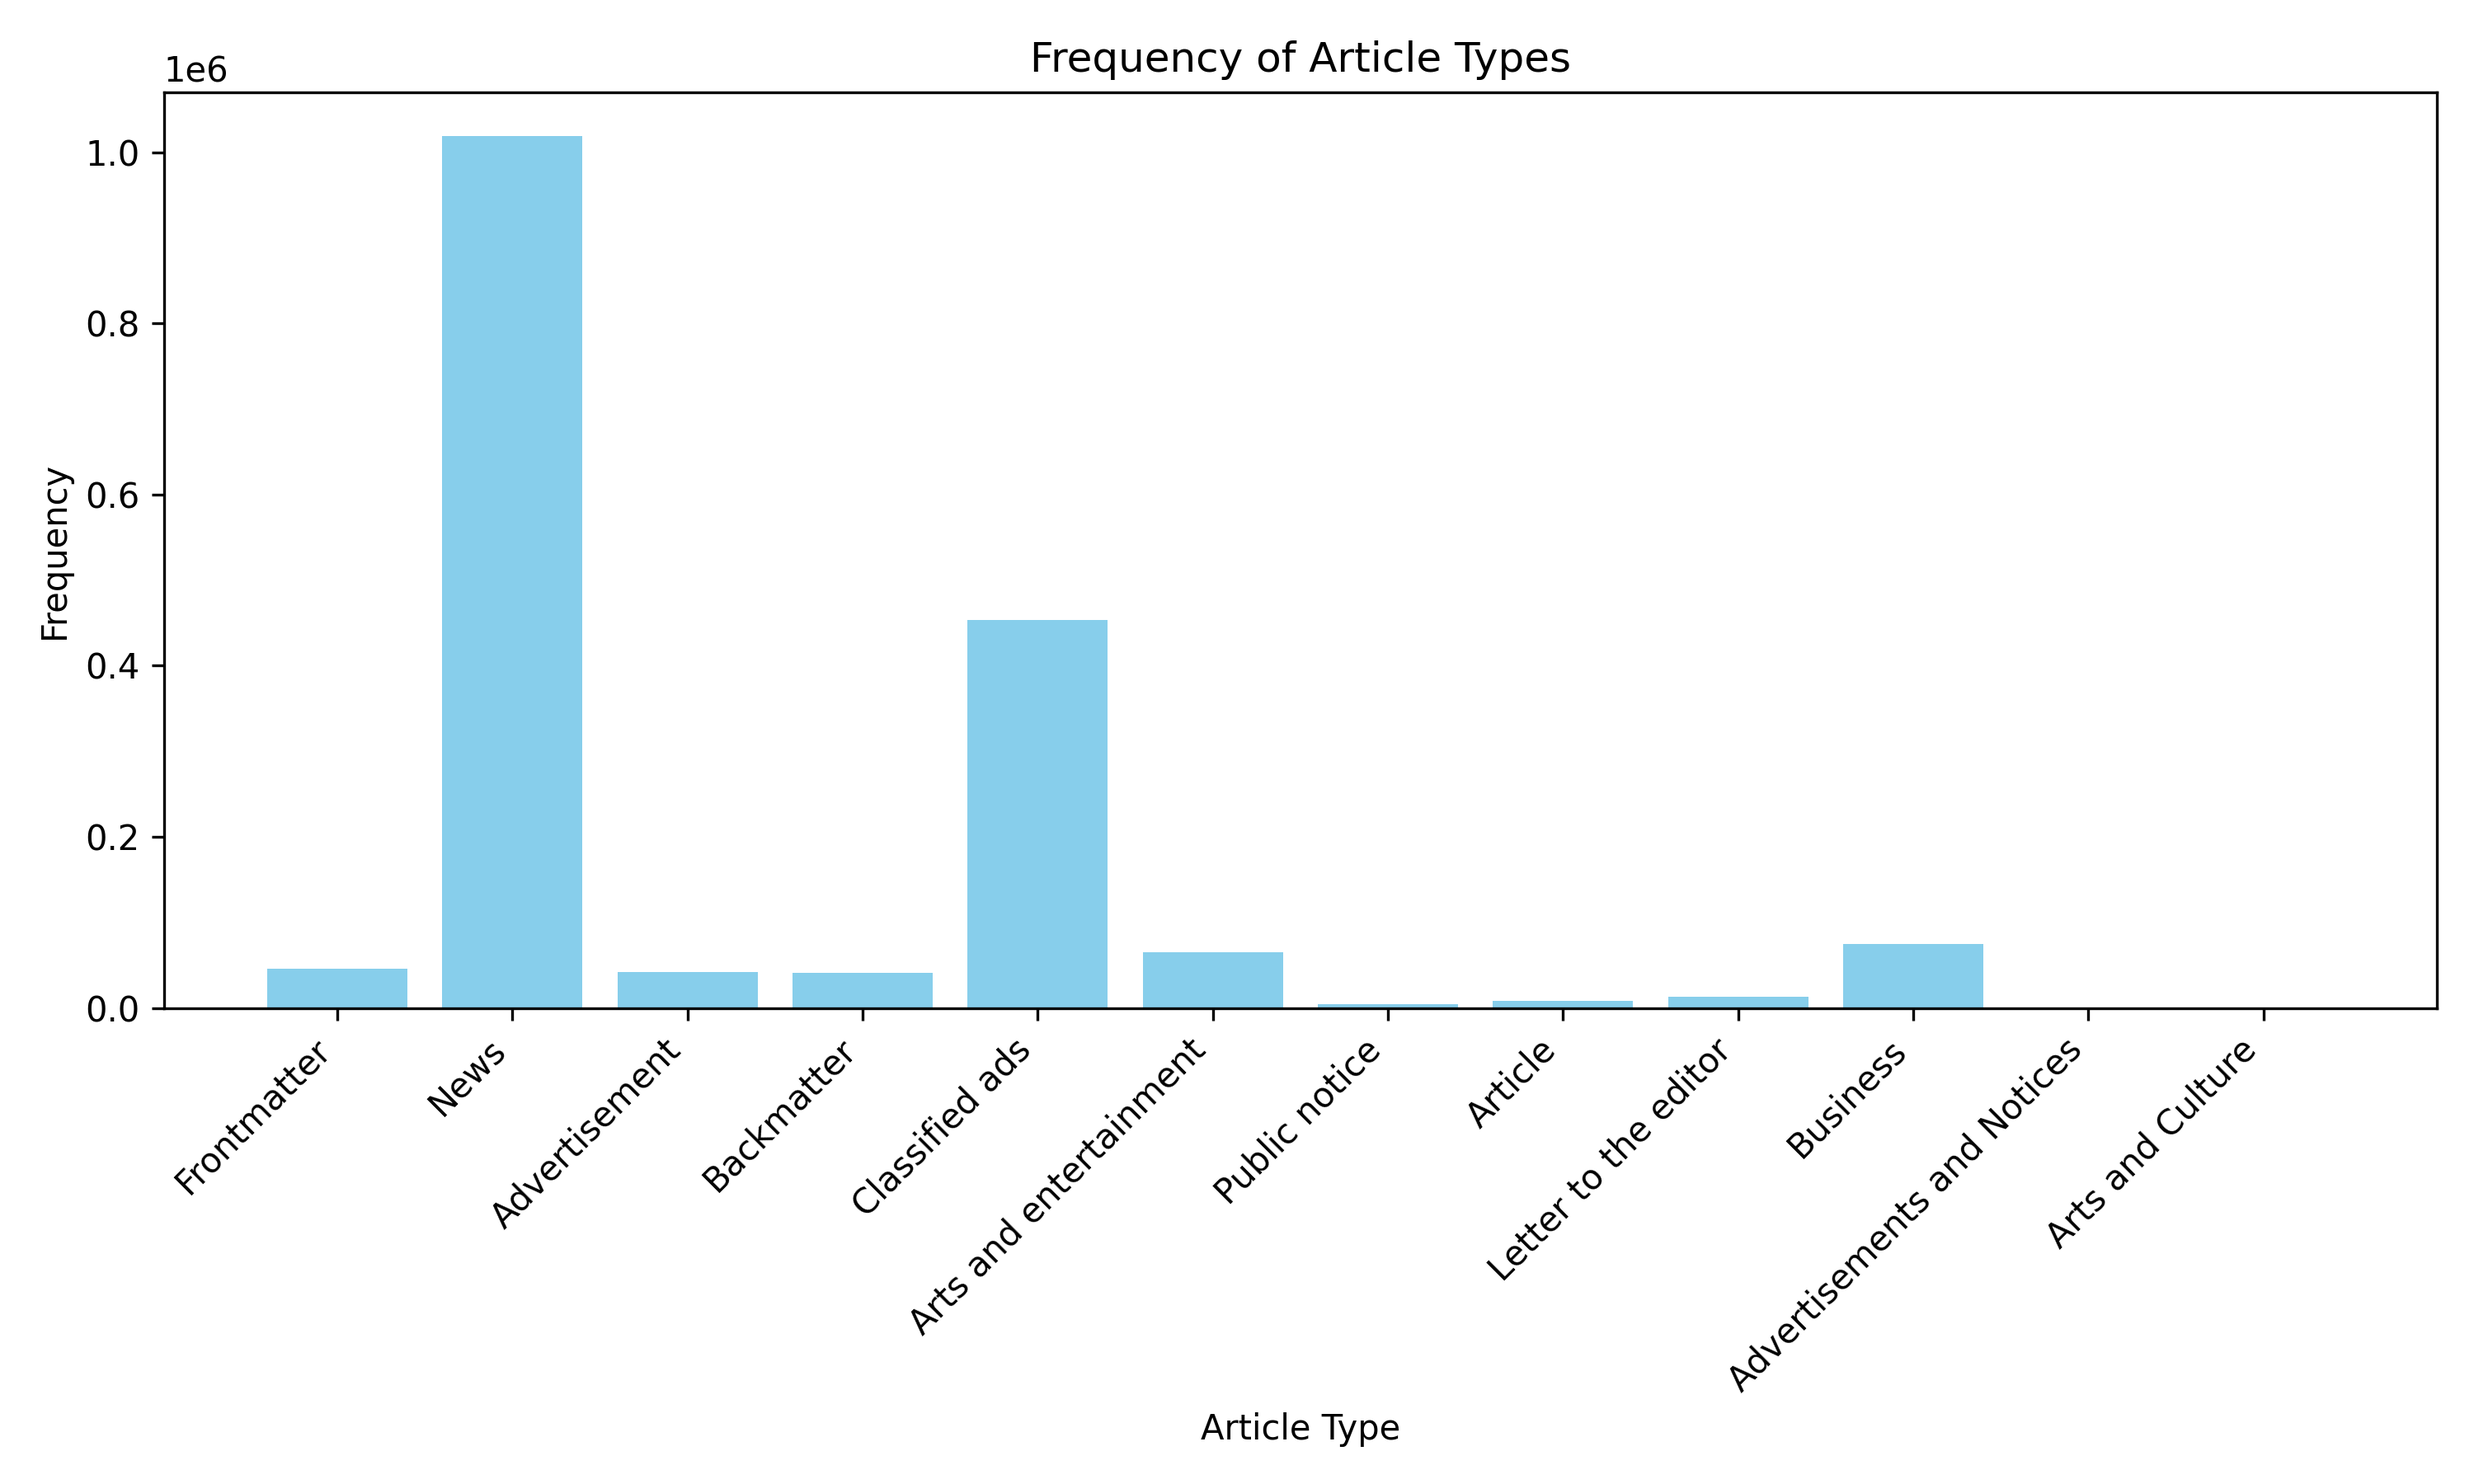
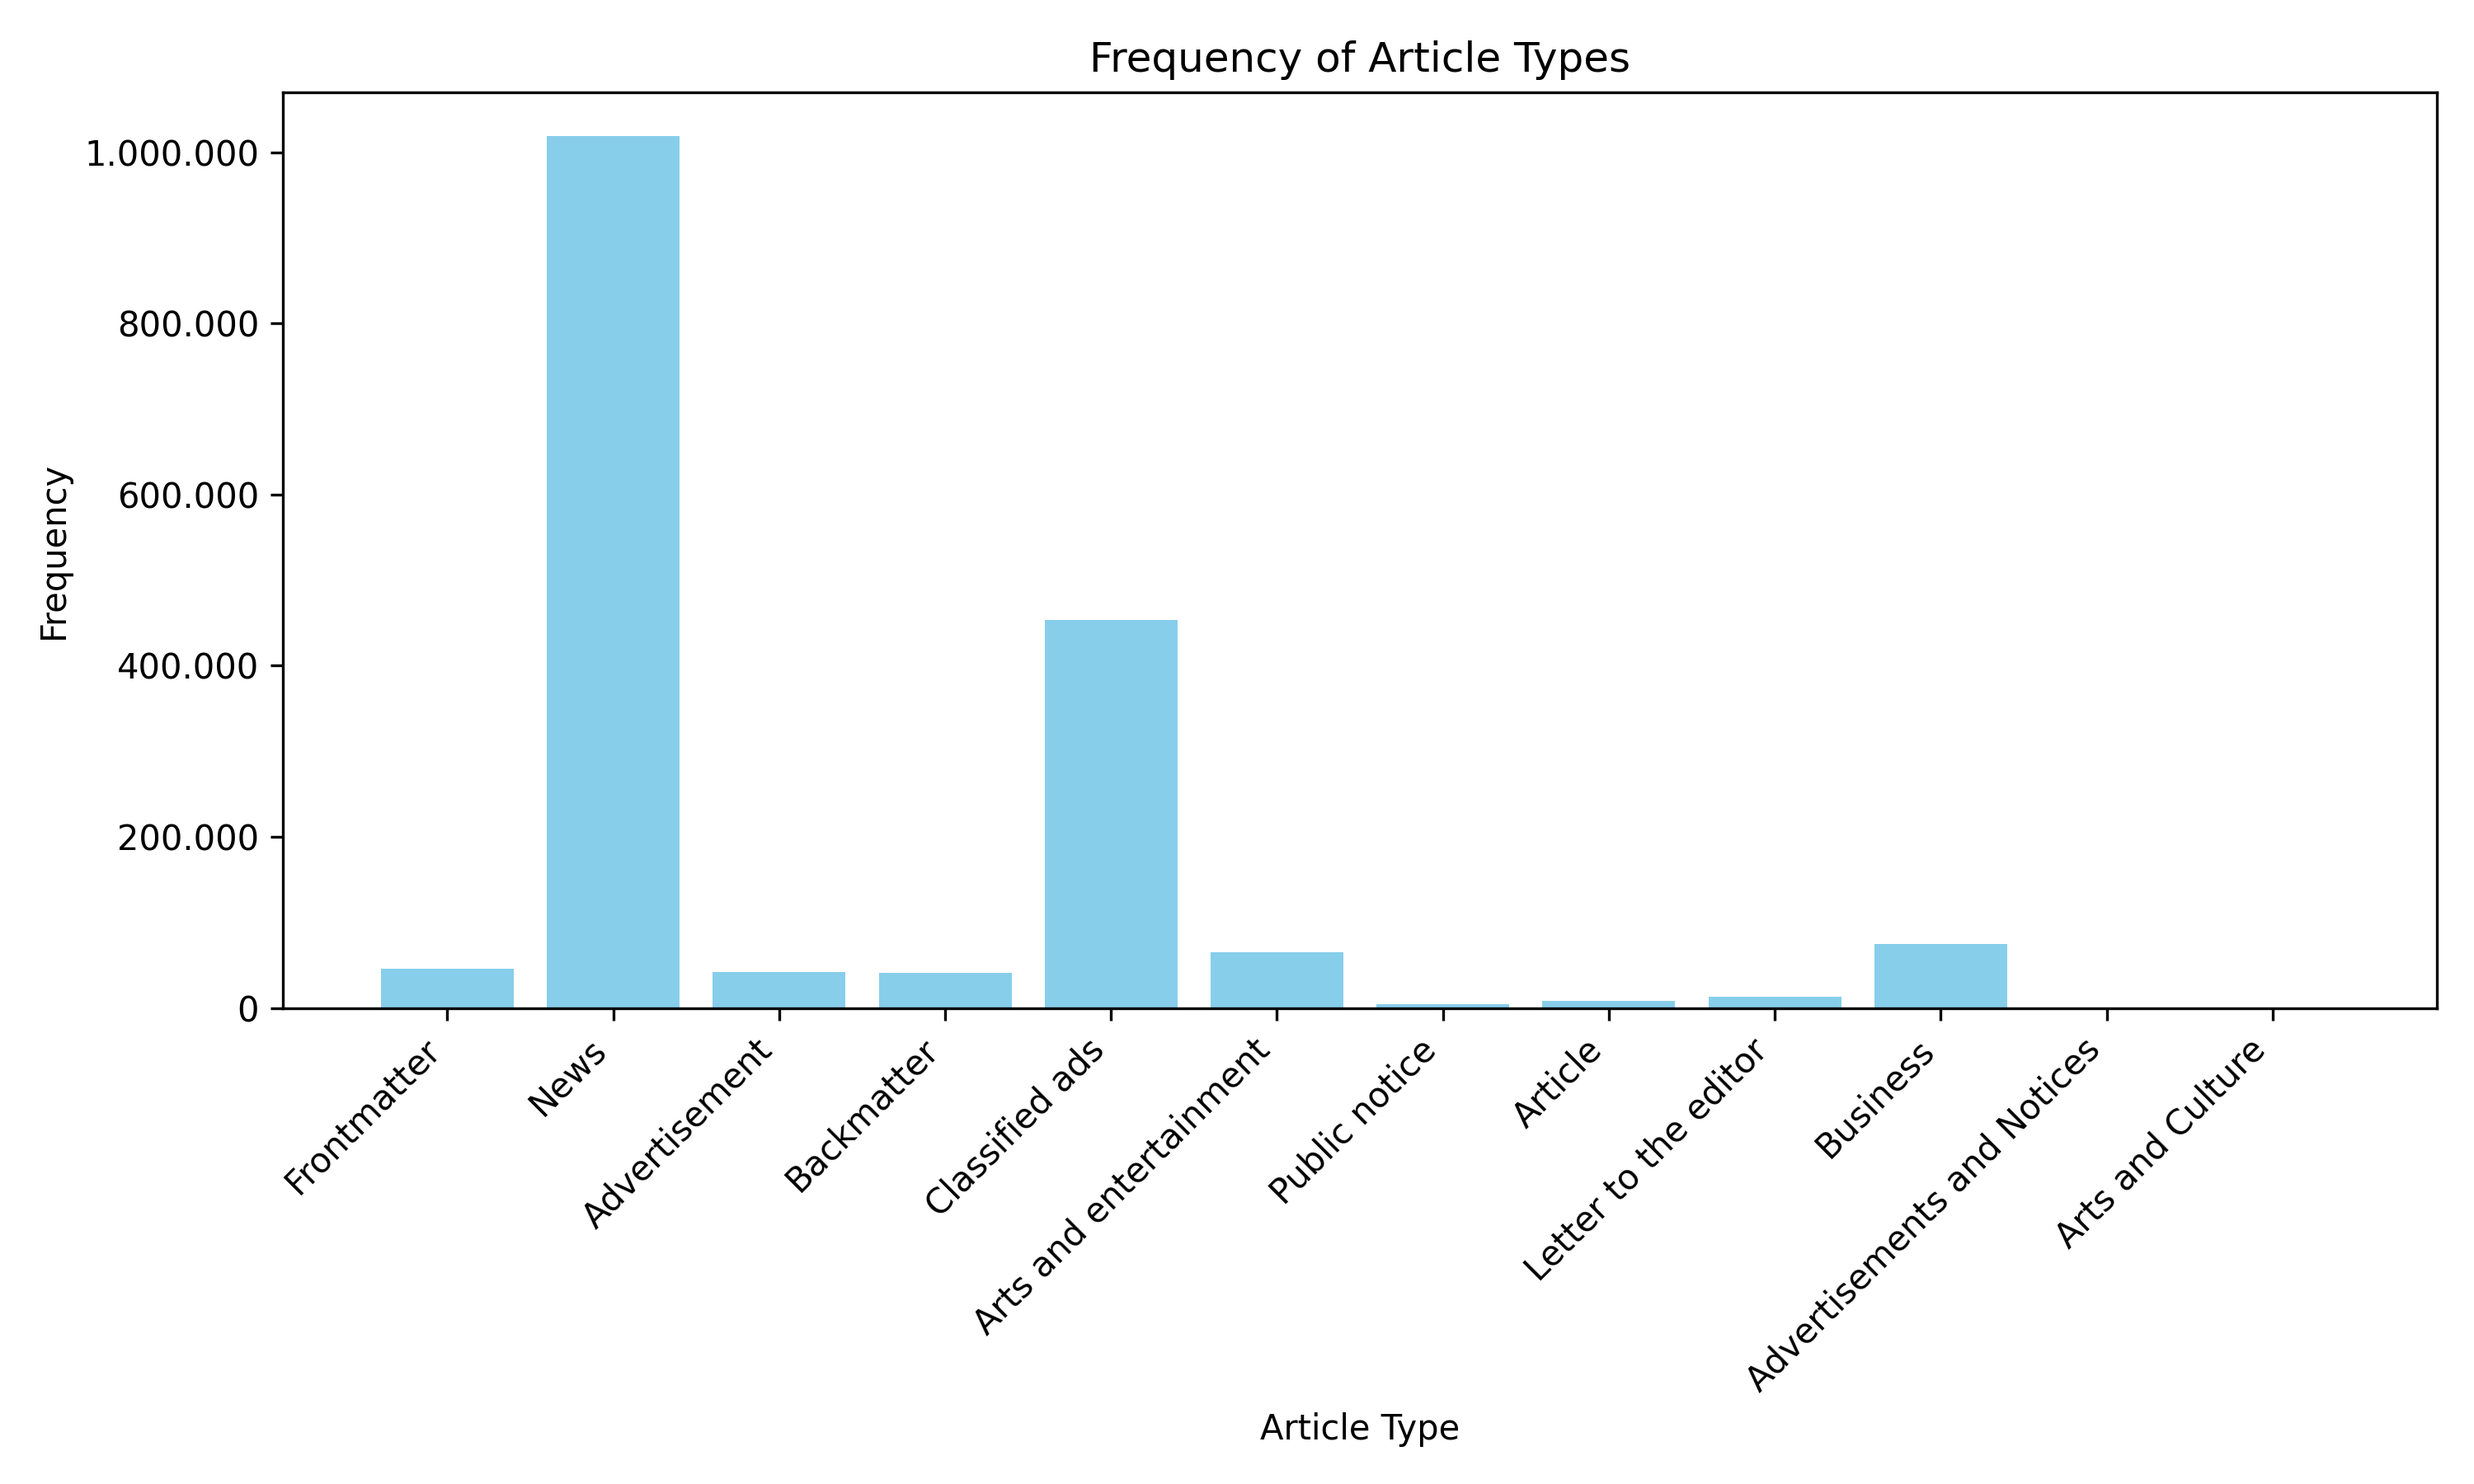
adding the get random ads

diff --git a/src/EDA/explore_categories.py b/src/EDA/explore_categories.py
@@ -36,9 +36,6 @@ def main():
     print("Article Type Frequencies:")
     for k, v in counter.items():
         print(f"{k}: {v}")
-
-    plt.gca().yaxis.set_major_formatter(FuncFormatter(format_thousands))
-
     # Plot and save to file
     plt.figure(figsize=(10, 6))
     plt.bar(counter.keys(), counter.values(), color='skyblue')
@@ -46,6 +43,10 @@ def main():
     plt.ylabel("Frequency")
     plt.title("Frequency of Article Types")
     plt.xticks(rotation=45, ha="right")
+
+    # Set the y-axis formatter AFTER creating the plot
+    plt.gca().yaxis.set_major_formatter(FuncFormatter(format_thousands))
+
     plt.tight_layout()
     plt.savefig(OUTPUT_IMAGE, dpi=300)
     print(f"Plot saved to: {OUTPUT_IMAGE}")

diff --git a/src/preprocessing/filter_ads.py b/src/preprocessing/filter_ads.py
@@ -13,7 +13,7 @@ def process_file(file_path):
         except json.JSONDecodeError as e:
             raise("cannot process the json: {file_path}, full error: {e}")
 
-        return [record for record in data if record.get("articleType") == "Classified ads"]
+        return [record for record in data if record.get("articleType") in ["Classified ads", "Advertisement", "Advertisements and Notices"]]
 
 def main():
     json_files = list(FOLDER_ARTICLES.glob("*.json"))

diff --git a/src/EDA/get_random_ad.py b/src/EDA/get_random_ad.py
@@ -1,0 +1,20 @@
+import json
+import random
+from pathlib import Path
+
+from settings import FILTERED_ADS
+
+def get_random_ad():
+    """
+    Get a random entry from filtered_ads.json and print it.
+    """
+    
+    with open(FILTERED_ADS, 'r') as f:
+        ads = json.load(f)
+    
+    random_ad = random.choice(ads)
+    print(json.dumps(random_ad, indent=2))
+    return random_ad
+
+if __name__ == "__main__":
+    get_random_ad()

diff --git a/src/settings.py b/src/settings.py
@@ -5,3 +5,5 @@ DATA_FOLDER = Path(__file__).parents[1] / ("data")
 FOLDER_ARTICLES = DATA_FOLDER / "json_res/scratch/project_2005072/keshu/octavo-newspapers-downloader/data/work/json_res"
 
 FINDINGS_FOLDER = Path(__file__).parents[1] / ("findings")
+
+FILTERED_ADS = DATA_FOLDER / "filtered_ads.json"
